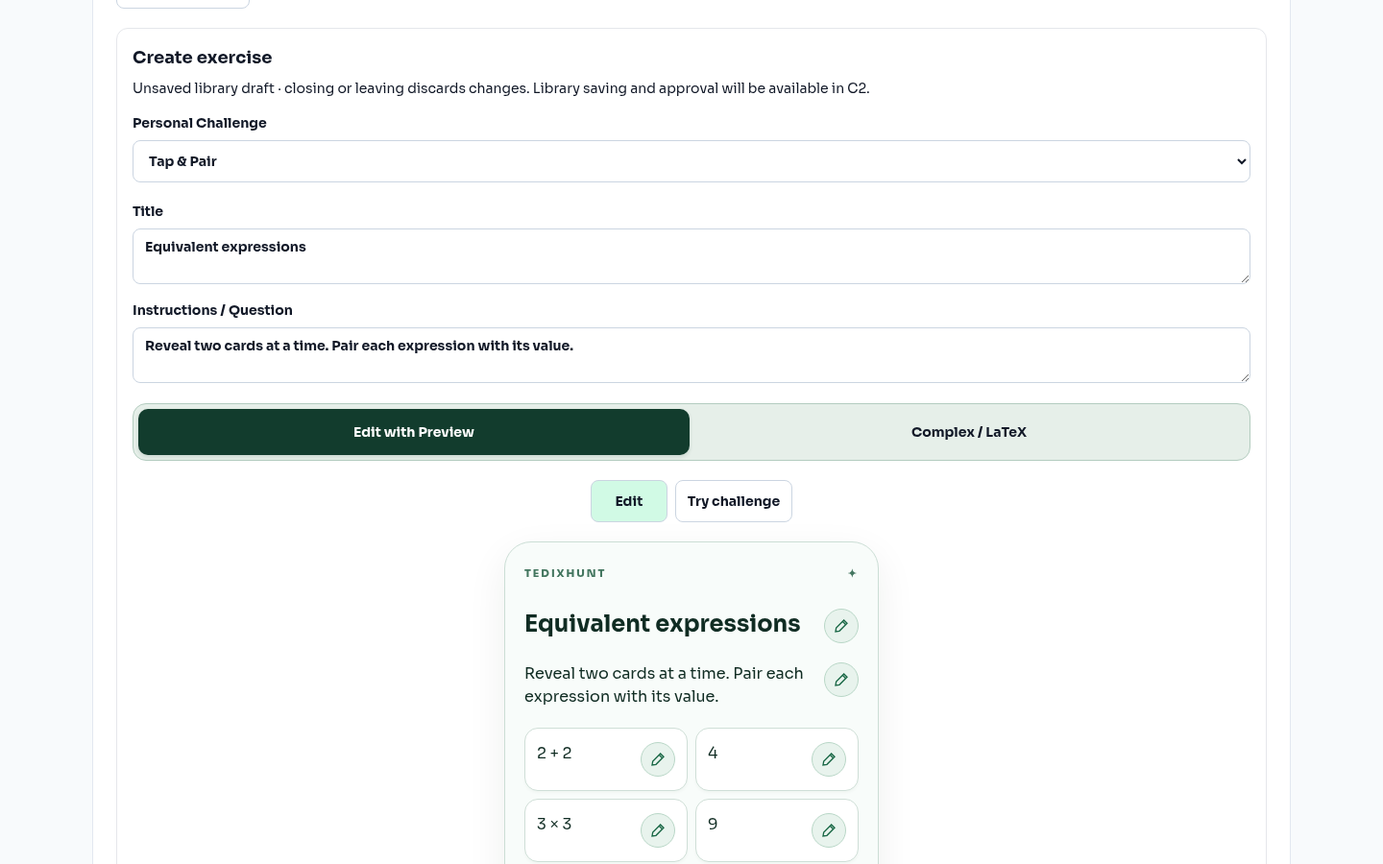
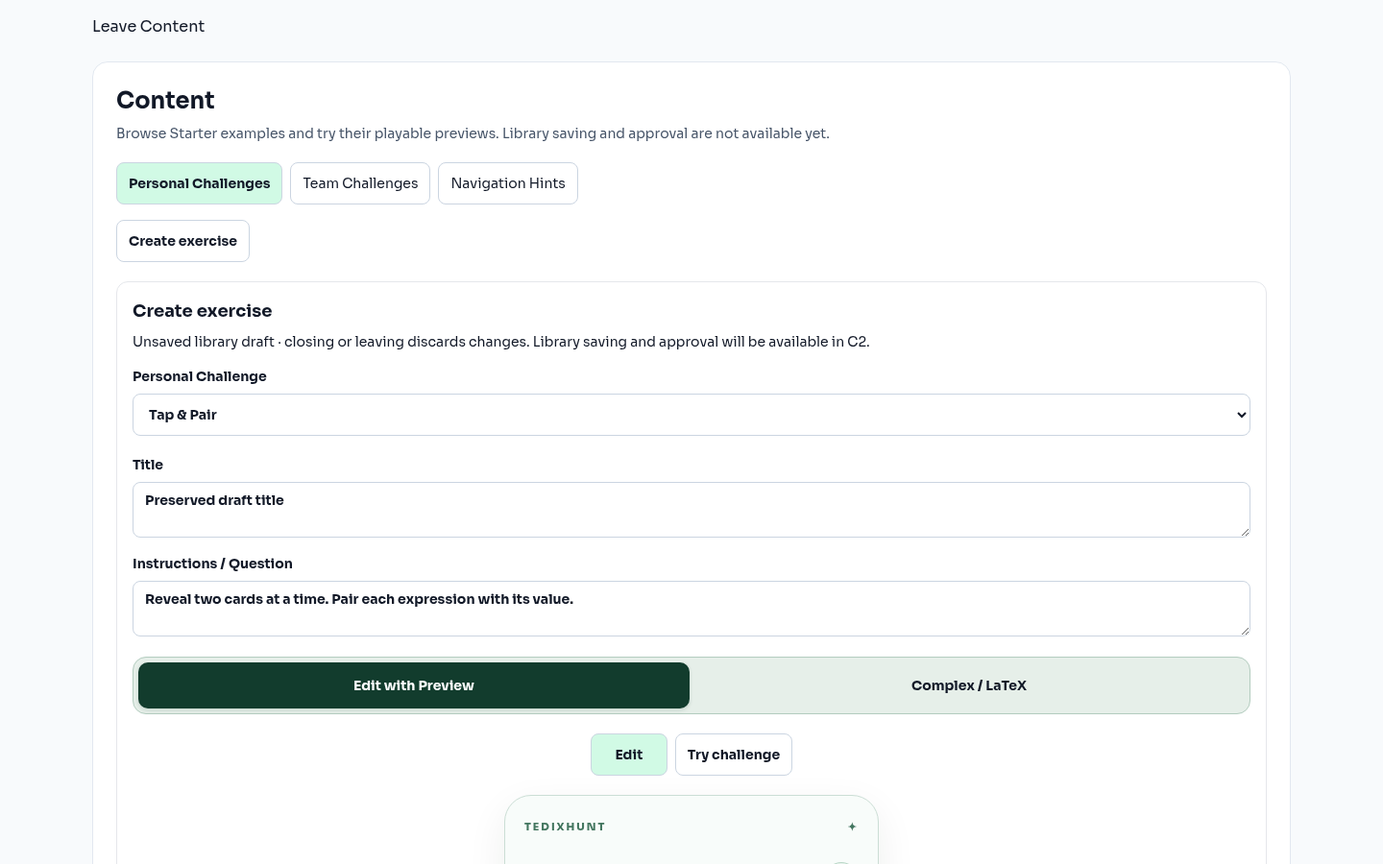
Share individual exercise picker and guard Content draft navigation

diff --git a/tests/contentPicker.test.tsx b/tests/contentPicker.test.tsx
@@ -1,0 +1,112 @@
+import { act, useState } from 'react'
+import { createRoot, type Root } from 'react-dom/client'
+import { createMemoryRouter, RouterProvider } from 'react-router-dom'
+import { afterEach, beforeEach, expect, test, vi } from 'vitest'
+import { ContentPicker } from '../src/features/creator/content/ContentPicker'
+import { ContentSelection } from '../src/features/creator/content/ContentSelection'
+import { ContentLibrary } from '../src/features/creator/content/ContentLibrary'
+import { initialFilters, starterContent, type ContentRecord } from '../src/features/creator/content/catalog'
+import { PersonalChallengeAuthoring } from '../src/features/creator/exercises/PersonalChallengeAuthoring'
+import type { AuthoringDraft } from '../src/features/creator/exercises/experimentDrafts'
+import { applyExerciseDrafts } from '../src/features/creator/exercises/templateExercises'
+vi.mock('../src/services/api/geography', () => ({ geographyApi: { countries: async () => ({ countries: [] }) } }))
+let container: HTMLDivElement, root: Root, router: ReturnType<typeof createMemoryRouter>
+beforeEach(() => {
+  vi.stubGlobal('IS_REACT_ACT_ENVIRONMENT', true)
+  vi.spyOn(window, 'confirm').mockReturnValue(false)
+  Object.defineProperty(HTMLDialogElement.prototype, 'showModal', { configurable: true, value() { this.setAttribute('open', '') } })
+  Object.defineProperty(HTMLDialogElement.prototype, 'close', { configurable: true, value() { this.removeAttribute('open') } })
+  container = document.createElement('div'); document.body.append(container); root = createRoot(container)
+})
+afterEach(() => { act(() => root.unmount()); router?.dispose(); container.remove(); vi.restoreAllMocks(); vi.unstubAllGlobals() })
+async function mount(element: React.ReactNode) { router = createMemoryRouter([{ path: '/', element }]); await act(async () => root.render(<RouterProvider router={router} />)) }
+const button = (label: string) => [...container.querySelectorAll('button')].find(b => b.textContent === label || b.getAttribute('aria-label') === label)!
+async function click(label: string) { expect(button(label), label).toBeDefined(); await act(async () => button(label).click()) }
+async function change(label: string, value: string) {
+  const node = container.querySelector(`[aria-label="${label}"]`) as HTMLSelectElement | HTMLTextAreaElement
+  await act(async () => { Object.getOwnPropertyDescriptor(node instanceof HTMLSelectElement ? HTMLSelectElement.prototype : HTMLTextAreaElement.prototype, 'value')!.set!.call(node, value); node.dispatchEvent(new Event(node instanceof HTMLSelectElement ? 'change' : 'input', { bubbles: true })) })
+}
+const duplicate: ContentRecord = { ...starterContent[0], id: 'fixture-second-record', exercise: { ...structuredClone(starterContent[0].exercise), id: 'fixture-second-exercise', title: 'Another pair exercise', instructions: 'Different source question' } }
+test('picker selects distinct records of the same mechanic, searches instructions and previews without assignment', async () => {
+  const select = vi.fn()
+  const items = [starterContent[0], duplicate]
+  await mount(<ContentPicker section="Personal Challenges" items={items} onSelect={select} />)
+  await click('Try example: Another pair exercise')
+  expect(select).toHaveBeenCalledWith(duplicate)
+  expect(select.mock.calls[0][0].id).not.toBe(items[0].id)
+  expect(container.textContent).toContain('Category: Unclassified')
+  await click('Preview Another pair exercise')
+  expect(container.querySelector('dialog')?.textContent).toContain('Different source question')
+  await click('Close exercise preview')
+  const search = container.querySelector('input[type="search"]')!
+  await act(async () => { Object.getOwnPropertyDescriptor(HTMLInputElement.prototype, 'value')!.set!.call(search, 'Different source question'); search.dispatchEvent(new Event('input', { bubbles: true })) })
+  expect(button(`Try example: ${items[0].exercise.title}`)).toBeUndefined()
+  expect(button('Try example: Another pair exercise')).toBeDefined()
+})
+test('Template Predefined uses individual picker and retains publication guard and custom draft across modes', async () => {
+  let current: AuthoringDraft
+  const mutate = vi.fn(), before = structuredClone(starterContent)
+  function Harness() { const [draft, setDraft] = useState<AuthoringDraft>({ source: 'saved', assignment: 'predefined' }); current = draft; return <PersonalChallengeAuthoring value={{}} draft={draft} onDraftChange={setDraft} onChange={mutate} /> }
+  await mount(<Harness />)
+  expect(container.querySelector('[aria-label="Content exercise picker"]')).not.toBeNull()
+  await click(`Try example: ${starterContent[0].exercise.title}`)
+  expect(current!.exercise).toEqual(starterContent[0].exercise)
+  expect(current!.exercise).not.toBe(starterContent[0].exercise)
+  expect(button('Apply challenge')).toBeUndefined()
+  expect(applyExerciseDrafts([{ checkpoint: 1 }], { 'kind:0': current! }).checkpoints[0].customExercises).toBeUndefined()
+  await click('Create Your Own'); await change('Title', 'My independent draft')
+  const draftId = current!.custom!.id
+  await click('Predefined'); await click('Create Your Own')
+  expect(current!.custom!.title).toBe('My independent draft'); expect(current!.custom!.id).toBe(draftId)
+  expect(mutate).not.toHaveBeenCalled(); expect(starterContent).toEqual(before)
+})
+test('section switches cancel or discard drafts and never retain a mismatched editor', async () => {
+  await mount(<ContentLibrary />); await click('Create exercise'); await change('Title', 'Unsaved personal title')
+  await click('Edit Card 1')
+  const card = container.querySelector('[role="group"][aria-label="Edit Card 1"] textarea')!
+  await act(async () => { Object.getOwnPropertyDescriptor(HTMLTextAreaElement.prototype, 'value')!.set!.call(card, 'Preserved pair card'); card.dispatchEvent(new Event('input', { bubbles: true })) })
+  await click('Done')
+  await click('Complex / LaTeX'); await click('Edit with Preview')
+  expect(container.textContent).toContain('Preserved pair card')
+  expect((container.querySelector('[aria-label="Title"]') as HTMLTextAreaElement).value).toBe('Unsaved personal title')
+  await click('Team Challenges')
+  expect(button('Personal Challenges').getAttribute('aria-pressed')).toBe('true')
+  expect((container.querySelector('[aria-label="Title"]') as HTMLTextAreaElement).value).toBe('Unsaved personal title')
+  vi.mocked(window.confirm).mockReturnValue(true); await click('Team Challenges')
+  expect(container.querySelector('[aria-label="Library exercise draft"]')).toBeNull()
+  await click('Create exercise')
+  expect(container.querySelector('[aria-label="Team Challenge authoring"]')).not.toBeNull()
+  expect(container.querySelector('[aria-label="Personal Challenge authoring"]')).toBeNull()
+  await click('Navigation Hints')
+  expect(container.querySelector('[aria-label="Library exercise draft"]')).toBeNull(); expect(button('Create exercise')).toBeUndefined()
+  await click('Personal Challenges'); await click('Create exercise')
+  expect((container.querySelector('[aria-label="Title"]') as HTMLTextAreaElement).value).not.toBe('Unsaved personal title')
+  await change('Title', 'Replacement draft'); await click('Create exercise')
+  expect((container.querySelector('[aria-label="Title"]') as HTMLTextAreaElement).value).not.toBe('Replacement draft')
+})
+test('Mathematics hierarchy is conditional, uses supplied associations and resets descendants', async () => {
+  const items: ContentRecord[] = [{ ...starterContent[0], curriculum: [
+    { category: 'Mathematics', grade: 5, main: 'Algebra', unitId: 'fixture-unit-a', lessonId: 'fixture-lesson-a' },
+    { category: 'Mathematics', grade: 6, main: 'Geometry', unitId: 'fixture-unit-b', lessonId: 'fixture-lesson-b' },
+  ] }]
+  function Harness() { const [filters, setFilters] = useState(initialFilters); return <ContentSelection filters={filters} onChange={setFilters} items={items} /> }
+  await mount(<Harness />)
+  expect(container.querySelector('[aria-label="Grade"]')).toBeNull()
+  await change('Content category', 'Mathematics')
+  const select = (label: string) => container.querySelector(`[aria-label="${label}"]`) as HTMLSelectElement
+  expect([...select('Grade').options].map(o => o.value)).toEqual(['Mix', '5', '6'])
+  expect(select('Main').disabled).toBe(true)
+  await change('Grade', '5'); expect([...select('Main').options].map(o => o.value)).toEqual(['Mix', 'Algebra'])
+  await change('Main', 'Algebra'); await change('Unit', 'fixture-unit-a'); await change('Lesson', 'fixture-lesson-a')
+  await change('Grade', '6')
+  expect(select('Main').value).toBe('Mix'); expect(select('Unit').value).toBe(''); expect(select('Lesson').value).toBe('')
+  await change('Content category', 'History'); expect(select('Grade')).toBeNull()
+})
+test('absent curriculum leaves the Mathematics hierarchy visible without invented options', async () => {
+  await mount(<ContentSelection filters={{ ...initialFilters, category: 'Mathematics' }} onChange={() => {}} items={starterContent} />)
+  for (const label of ['Grade', 'Main', 'Unit', 'Lesson']) {
+    const select = container.querySelector(`[aria-label="${label}"]`) as HTMLSelectElement
+    expect(select.disabled).toBe(true); expect(select.options).toHaveLength(1)
+  }
+  expect(container.textContent).toContain('unavailable levels await the curriculum catalog')
+})

diff --git a/src/features/creator/exercises/PersonalChallengeAuthoring.tsx b/src/features/creator/exercises/PersonalChallengeAuthoring.tsx
@@ -1,6 +1,4 @@
-import { useState } from 'react'
-import { ContentSelection } from '../content/ContentSelection'
-import { filterContent, initialFilters, starterContent } from '../content/catalog'
+import { ContentPicker } from '../content/ContentPicker'
 import { FormulaField, FormulaScope } from './FormulaEditor'
 import { MathFieldPreview } from './MathText'
 import { PredefinedChallengeContent } from './PredefinedChallengeContent'
@@ -21,14 +19,13 @@ export function PersonalChallengeAuthoring(props: Props) {
   return <FormulaScope><PersonalChallengeAuthoringContent {...props} /></FormulaScope>
 }
 function PersonalChallengeAuthoringContent({ standalone = false, value, context = modernContext, onChange, draft = { source: 'saved', assignment: 'predefined' }, onDraftChange }: Props) {
-  const [contentFilters, setContentFilters] = useState(initialFilters)
   const customMode = draft.source === 'custom', exampleMode = draft.source === 'example', existingMode = context.mode === 'legacy' || context.mode === 'unresolved' && draft.contextChoice === 'compatibility'
   const saved = savedExercise({ ...value, customExercises: undefined }, 'kind')
   const active = draft.emptySelection ? undefined : customMode ? draft.custom : exampleMode ? draft.exercise : savedExercise({ ...value, kind: existingMode ? draft.legacyKind ?? value.kind : value.kind, customExercises: undefined }, 'kind')
   const errors = active ? validateExercise(active) : []
   const changeView = (patch: Partial<AuthoringDraft>) => onDraftChange({ ...draft, ...patch })
   const create = (type: string) => {
-    const example = prototypes.find(e => e.type === type) ?? prototypes[0]
+    const example = exampleMode && active?.type === type ? active : prototypes.find(e => e.type === type) ?? prototypes[0]
     const customByType = { ...draft.customByType, ...(draft.custom ? { [draft.custom.type]: draft.custom } : {}) }
     const custom = customByType[example.type] ?? authorPrototype(independentExercise(example))
     changeView({ source: 'custom', emptySelection: false, appliedCustom: draft.assignment === 'custom' ? draft.appliedCustom ?? draft.custom : draft.appliedCustom, custom, customByType: { ...customByType, [custom.type]: custom } })
@@ -63,9 +60,9 @@ function PersonalChallengeAuthoringContent({ standalone = false, value, context 
 
     {existingMode && !customMode && <CheckpointStoryPreview friendly value={value} />}
     <section aria-label="Checkpoint gameplay"><label className="block text-sm font-bold">Personal Challenge<select aria-label="Personal Challenge" className={`${control} mt-2 w-full bg-white`} value={draft.emptySelection ? '' : existingMode ? draft.legacyKind ?? value.kind ?? '' : customMode ? draft.custom?.type ?? '' : exampleMode ? draft.exercise?.type ?? '' : ''} onChange={e => select(e.target.value)}>
-      <option value="">No challenge (optional)</option>{existingMode ? legacyKinds.map(kind => <option key={kind} value={kind}>{gameplayPresentation('kind', kind).name}</option>) : personalTypes.filter(([type]) => customMode || existingMode || filterContent(starterContent, 'Personal Challenges', contentFilters).some(item => item.mechanic === type)).map(([type, label]) => <option key={type} value={type}>{label}</option>)}
+      <option value="">No challenge (optional)</option>{existingMode ? legacyKinds.map(kind => <option key={kind} value={kind}>{gameplayPresentation('kind', kind).name}</option>) : personalTypes.map(([type, label]) => <option key={type} value={type}>{label}</option>)}
     </select></label></section>
-    {!standalone && !existingMode && !customMode && <><ContentSelection filters={contentFilters} onChange={setContentFilters} /><p className="text-sm text-slate-600">Starter previews only. Approved library selection is not available for published Hunts.</p></>}
+    {!standalone && !existingMode && !customMode && <><ContentPicker section="Personal Challenges" selectedId={draft.exercise ? `starter:${draft.exercise.id}` : undefined} onSelect={item => changeView({ source: 'example', emptySelection: false, exercise: structuredClone(item.exercise) })} /><p className="text-sm text-slate-600">Starter previews only. Approved library selection is not available for published Hunts.</p></>}
     {!standalone && (!existingMode || customMode) && <p role="note" className="text-sm text-slate-600">{!customMode && !exampleMode && saved ? 'Choose a mechanic to create a replacement. Your current challenge stays assigned until you apply a change.' : <>{customMode ? 'Save your own challenge for review. ' : 'Try an example, then choose Create Your Own to adapt it. '}These challenges are not available in published Hunts yet.</>}</p>}
     {!existingMode && !customMode && exampleMode && saved && <button type="button" className={control} onClick={() => changeView({ source: 'saved', emptySelection: false })}>View saved challenge</button>}
     {customMode && active ? <section aria-label={`${active.type} content editor`} className="space-y-4">

diff --git a/src/features/creator/content/ContentLibrary.tsx b/src/features/creator/content/ContentLibrary.tsx
@@ -1,33 +1,20 @@
-import { ContentSelection } from './ContentSelection'
+import { ContentPicker } from './ContentPicker'
 import { LibraryAuthoring } from './LibraryAuthoring'
 import { useState } from 'react'
-import { ExercisePreview } from '../exercises/ExercisePreview'
 import { control } from '../exercises/ExerciseRenderer'
-import { typeName } from '../exercises/catalog'
-import { categories, filterContent, initialFilters, starterContent, type ContentCategory, type ContentRecord } from './catalog'
+import { categories, starterContent, type ContentCategory, type ContentRecord } from './catalog'
 
-/** Read-only C1 browser; no assignment, editing or persistence side effects. */
+/** Protected source browsing and isolated session drafts; no library persistence. */
 export function ContentLibrary({ items = starterContent }: { items?: readonly ContentRecord[] }) {
+  const [draftSession, setDraftSession] = useState(0)
   const [authoring, setAuthoring] = useState<'personal' | 'team' | null>(null)
   const [category, setCategory] = useState<ContentCategory>('Personal Challenges')
-  const [filters, setFilters] = useState(initialFilters)
-  const [preview, setPreview] = useState<ContentRecord | null>(null)
-  const visible = filterContent(items, category, filters)
   return <section aria-label="Content Library" className="mt-6 min-w-0 rounded-2xl border border-slate-200 bg-white p-4 sm:p-6">
     <h2 className="text-2xl font-bold">Content</h2>
     <p className="mt-2 text-sm text-slate-600">Browse Starter examples and try their playable previews. Library saving and approval are not available yet.</p>
-    <div aria-label="Content categories" className="mt-5 flex flex-wrap gap-2">{categories.map(name => <button key={name} type="button" aria-pressed={category === name} onClick={() => setCategory(name)} className={`${control} ${category === name ? 'bg-emerald-100 font-bold' : ''}`}>{name}</button>)}</div>
-    <ContentSelection filters={filters} onChange={setFilters} />
-    {category !== 'Navigation Hints' && <button type="button" className={`${control} mt-4 font-bold`} onClick={() => { if (!authoring || window.confirm('Discard the current unsaved exercise and start another?')) { setAuthoring(null); queueMicrotask(() => setAuthoring(category === 'Team Challenges' ? 'team' : 'personal')) } }}>Create exercise</button>}
-    {authoring && <LibraryAuthoring key={authoring} team={authoring === 'team'} onClose={() => setAuthoring(null)} />}
-    <h3 className="mt-6 text-lg font-bold">{category}</h3>
-    <p role="status" className="mt-1 text-sm text-slate-600">{visible.length} Starter {visible.length === 1 ? 'example' : 'examples'}</p>
-    {visible.length ? <ul className="mt-4 grid gap-4 md:grid-cols-2 xl:grid-cols-3">{visible.map(item => <li key={item.id} className="flex min-w-0 flex-col rounded-xl border border-slate-200 p-4">
-      <p className="text-xs font-bold text-emerald-800">{item.collection.name} · Protected example</p>
-      <h4 className="mt-2 font-bold">{item.exercise.title}</h4><p className="mt-1 text-sm text-slate-600">{typeName(item.mechanic)}</p>
-      <p className="mt-2 flex-1 text-sm">{item.exercise.instructions}</p>
-      <button type="button" className={`${control} mt-4 w-full font-bold`} aria-label={`Preview ${item.exercise.title}`} onClick={() => setPreview(item)}>Playable preview</button>
-    </li>)}</ul> : <p className="mt-4 rounded-xl bg-slate-50 p-5">{!items.some(item => item.category === category) ? 'No standalone Starter records are available for this category. Navigation settings in Templates are not reusable hint content.' : 'No Starter examples match these filters. Reset filters to browse unclassified examples.'}</p>}
-    {preview && <ExercisePreview key={preview.id} exercise={preview.exercise} onClose={() => setPreview(null)} />}
+    <div aria-label="Content categories" className="mt-5 flex flex-wrap gap-2">{categories.map(name => <button key={name} type="button" aria-pressed={category === name} onClick={() => { if (name === category) return; if (authoring && !window.confirm('Discard this unsaved exercise and change content section?')) return; setAuthoring(null); setCategory(name) }} className={`${control} ${category === name ? 'bg-emerald-100 font-bold' : ''}`}>{name}</button>)}</div>
+    {category !== 'Navigation Hints' && <button type="button" className={`${control} mt-4 font-bold`} onClick={() => { if (!authoring || window.confirm('Discard the current unsaved exercise and start another?')) { setDraftSession(value => value + 1); setAuthoring(category === 'Team Challenges' ? 'team' : 'personal') } }}>Create exercise</button>}
+    {authoring && <LibraryAuthoring key={draftSession} team={authoring === 'team'} onClose={() => setAuthoring(null)} />}
+    <ContentPicker key={category} section={category} items={items} />
   </section>
 }

diff --git a/src/features/creator/content/ContentSelection.tsx b/src/features/creator/content/ContentSelection.tsx
@@ -1,13 +1,19 @@
-import { categoryFilters, templateCategories } from './classification'
+import { changeCurriculum, curriculumOptions, mathematicsLevels } from './curriculum'
+import { templateCategories } from './classification'
 import { ContentGeography, universalScope } from './ContentGeography'
 import { control } from '../exercises/ExerciseRenderer'
-import { initialFilters, type ContentFilters } from './catalog'
+import { initialFilters, starterContent, type ContentRecord, type ContentFilters } from './catalog'
 /** Shared browser conventions for library and Template Predefined. No assignment operation. */
-export function ContentSelection({ filters, onChange }: { filters: ContentFilters; onChange: (v: ContentFilters) => void }) {
+export function ContentSelection({ filters, onChange, items = starterContent }: { filters: ContentFilters; onChange: (v: ContentFilters) => void; items?: readonly ContentRecord[] }) {
   const scope = filters.scope ?? universalScope
   const setScope = (scope: typeof universalScope) => onChange({ ...filters, scope })
   return <fieldset className="mt-4 min-w-0"><legend className="font-bold">Filter content</legend><div className="mt-2 grid gap-3 sm:grid-cols-2"><label>Category<select aria-label="Content category" className={`${control} w-full bg-white`} value={filters.category} onChange={e => onChange({ ...initialFilters, query: filters.query, scope, category: e.target.value })}><option value="All">All</option>{templateCategories.map(c => <option key={c}>{c}</option>)}</select></label><label>Search<input type="search" className={`${control} w-full`} value={filters.query} onChange={e => onChange({ ...filters, query: e.target.value })} /></label></div>
-    {filters.category !== 'All' && <p className="mt-2 text-sm text-slate-600">No classified Starter records{categoryFilters[filters.category]?.length ? ' or Grade → Main → Unit → Lesson catalog' : ''} available yet.</p>}
+    {filters.category === 'Mathematics' && <fieldset className="mt-4 min-w-0" aria-describedby="math-curriculum-help"><legend className="text-sm font-bold">Mathematics curriculum</legend>
+      <div className="mt-2 grid gap-3 sm:grid-cols-2 lg:grid-cols-4">{mathematicsLevels.map(level => {
+        const options = curriculumOptions(items, filters, level.key)
+        return <label key={level.key} className="min-w-0 text-sm">{level.label}<select aria-label={level.label} className={`${control} mt-1 w-full bg-white`} value={filters[level.key]} disabled={!options.length} onChange={e => onChange(changeCurriculum(filters, level.key, e.target.value))}><option value={level.all}>{options.length ? 'All' : 'Unavailable'}</option>{options.map(value => <option key={value} value={value}>{value}</option>)}</select></label>
+      })}</div><p id="math-curriculum-help" className="mt-2 text-sm text-slate-600">Grade → Main → Unit → Lesson. Only supplied curriculum associations are selectable; unavailable levels await the curriculum catalog.</p>
+    </fieldset>}
     <ContentGeography value={scope} onChange={setScope} />
     {(scope.country || scope.region || scope.city) && <p role="status" className="mt-2 text-sm">No Starter geographic associations are available yet. Reset geography to Universal to browse examples.</p>}
     <button type="button" className={`${control} mt-3`} onClick={() => { onChange(initialFilters) }}>Reset filters</button>

diff --git a/src/features/creator/content/ContentPicker.tsx b/src/features/creator/content/ContentPicker.tsx
@@ -1,0 +1,29 @@
+import { useState } from 'react'
+import { ContentSelection } from './ContentSelection'
+import { filterContent, initialFilters, starterContent, type ContentCategory, type ContentRecord } from './catalog'
+import { ExercisePreview } from '../exercises/ExercisePreview'
+import { control } from '../exercises/ExerciseRenderer'
+import { typeName } from '../exercises/catalog'
+
+/** Select individual records for local simulation only; never assigns a library revision. */
+export function ContentPicker({ section, items = starterContent, selectedId, onSelect }: {
+  section: ContentCategory; items?: readonly ContentRecord[]; selectedId?: string; onSelect?: (item: ContentRecord) => void
+}) {
+  const [filters, setFilters] = useState(initialFilters)
+  const [preview, setPreview] = useState<ContentRecord | null>(null)
+  const visible = filterContent(items, section, filters)
+  return <section aria-label="Content exercise picker" className="min-w-0">
+    <ContentSelection filters={filters} onChange={setFilters} items={items.filter(item => item.category === section)} />
+    <h3 className="mt-6 text-lg font-bold">{section}</h3>
+    <p role="status" className="mt-1 text-sm text-slate-600">{visible.length} Starter {visible.length === 1 ? 'example' : 'examples'}</p>
+    {visible.length ? <ul className="mt-4 grid gap-4 md:grid-cols-2 xl:grid-cols-3">{visible.map(item => <li key={item.id} className="flex min-w-0 flex-col rounded-xl border border-slate-200 p-4">
+      <p className="text-xs font-bold text-emerald-800">{item.collection.name} · Protected example</p>
+      <h4 className="mt-2 font-bold">{item.exercise.title}</h4><p className="mt-1 text-sm text-slate-600">{typeName(item.mechanic)}</p>
+      <dl className="mt-2 text-xs text-slate-600"><dt className="inline font-bold">Category: </dt><dd className="inline">{item.activityCategory ?? item.curriculum[0]?.category ?? 'Unclassified'}</dd><dt className="mt-1 font-bold">Geographic applicability</dt><dd>{item.geography ? [item.geography.country, item.geography.region, item.geography.city].filter(Boolean).join(' / ') || 'Universal' : 'Unclassified'}</dd></dl>
+      <p className="mt-2 flex-1 break-words text-sm">{item.exercise.instructions}</p>
+      <button type="button" className={`${control} mt-4 w-full font-bold`} aria-label={`Preview ${item.exercise.title}`} onClick={() => setPreview(item)}>Playable preview</button>
+      {onSelect && <button type="button" className={`${control} mt-2 w-full`} aria-pressed={selectedId === item.id} onClick={() => onSelect(item)}>Try example: {item.exercise.title}</button>}
+    </li>)}</ul> : <p className="mt-4 rounded-xl bg-slate-50 p-5">{!items.some(item => item.category === section) ? 'No standalone Starter records are available for this category. Navigation settings in Templates are not reusable hint content.' : 'No Starter examples match these filters. Reset filters to browse unclassified examples.'}</p>}
+    {preview && <ExercisePreview key={preview.id} exercise={preview.exercise} onClose={() => setPreview(null)} />}
+  </section>
+}

diff --git a/tests/browser/contentUnified.preview.tsx b/tests/browser/contentUnified.preview.tsx
@@ -1,3 +1,6 @@
+import { useState } from 'react'
+import { PersonalChallengeAuthoring } from '../../src/features/creator/exercises/PersonalChallengeAuthoring'
+import type { AuthoringDraft } from '../../src/features/creator/exercises/experimentDrafts'
 import { createRoot } from 'react-dom/client'
 import { createMemoryRouter, RouterProvider, Link } from 'react-router-dom'
 import { ContentLibrary } from '../../src/features/creator/content/ContentLibrary'
@@ -9,5 +12,6 @@ import '../../src/shared/theme/global.css'
 geographyApi.countries = async () => ({ countries: [{ code: 'RO', displayName: 'Romania' }, { code: 'FR', displayName: 'France' }] })
 geographyApi.regions = async country => ({ regions: [{ countryCode: country, admin1Code: 'fixture-region', displayName: 'Fixture region' }], regionLabel: 'Region', metadataStatus: 'ready', nextAfter: null })
 geographyApi.cities = async country => ({ cities: [{ geographicId: 'fixture-city', countryCode: country, countryDisplayName: 'Fixture country', name: 'Fixture city', admin1Code: 'fixture-region', regionDisplayName: 'Fixture region', regionStatus: 'resolved', administrativeContext: 'Fixture', latitude: 0, longitude: 0, localityId: null, registeredActive: false, registrationState: 'fixture', nextAction: 'fixture' }], nextAfter: null })
-const router = createMemoryRouter([{ path: '/', element: <main className="mx-auto max-w-7xl p-4"><Link to="/away">Leave Content</Link><ContentLibrary /></main> }, { path: '/away', element: <p>Left Content</p> }])
+function TemplatePredefined() { const [draft, setDraft] = useState<AuthoringDraft>({ source: 'saved', assignment: 'predefined' }); return <main className="mx-auto max-w-7xl p-4"><h1>Template Personal Challenge</h1><PersonalChallengeAuthoring value={{}} draft={draft} onDraftChange={setDraft} onChange={() => { throw new Error('Example assignment is forbidden') }} /></main> }
+const router = createMemoryRouter([{ path: '/', element: <main className="mx-auto max-w-7xl p-4"><Link to="/away">Leave Content</Link><ContentLibrary /></main> }, { path: '/away', element: <p>Left Content</p> }, { path: '/template', element: <TemplatePredefined /> }], { initialEntries: [new URLSearchParams(window.location.search).has('template') ? '/template' : '/'] })
 createRoot(document.getElementById('root')!).render(<RouterProvider router={router} />)

diff --git a/src/features/creator/content/curriculum.ts b/src/features/creator/content/curriculum.ts
@@ -1,0 +1,25 @@
+import type { ContentFilters, ContentRecord } from './catalog'
+export const mathematicsLevels = [
+  { key: 'grade', label: 'Grade', all: 'Mix' },
+  { key: 'main', label: 'Main', all: 'Mix' },
+  { key: 'unit', label: 'Unit', all: '' },
+  { key: 'lesson', label: 'Lesson', all: '' },
+] as const
+export type CurriculumLevel = typeof mathematicsLevels[number]['key']
+/** Association values are source data, never generated curriculum identifiers. */
+export function curriculumOptions(items: readonly ContentRecord[], filters: ContentFilters, level: CurriculumLevel): string[] {
+  const index = mathematicsLevels.findIndex(l => l.key === level)
+  if (mathematicsLevels.slice(0, index).some(parent => filters[parent.key] === parent.all)) return []
+  const rows = items.flatMap(item => item.curriculum).filter(row => row.category === 'Mathematics' && mathematicsLevels.slice(0, index).every(parent => {
+    const selected = filters[parent.key]
+    const value = parent.key === 'unit' ? row.unitId : parent.key === 'lesson' ? row.lessonId : row[parent.key]
+    return selected === parent.all || String(value) === selected
+  }))
+  return [...new Set(rows.map(row => level === 'unit' ? row.unitId : level === 'lesson' ? row.lessonId : String(row[level])).filter((value): value is string => !!value))].sort((a, b) => a.localeCompare(b, undefined, { numeric: true }))
+}
+export function changeCurriculum(filters: ContentFilters, level: CurriculumLevel, value: string): ContentFilters {
+  const next = { ...filters, [level]: value }
+  const index = mathematicsLevels.findIndex(l => l.key === level)
+  for (const child of mathematicsLevels.slice(index + 1)) next[child.key] = child.all
+  return next
+}

diff --git a/src/features/creator/content/catalog.ts b/src/features/creator/content/catalog.ts
@@ -41,7 +41,7 @@ export const initialFilters: ContentFilters = { category: 'All', grade: 'Mix', m
 export function filterContent(items: readonly ContentRecord[], category: ContentCategory, filters: ContentFilters) {
   return items.filter(item => item.category === category &&
     (!filters.scope || !filters.scope.country || !!item.geography && (!item.geography.country || item.geography.country === filters.scope.country) && (!item.geography.region || item.geography.region === filters.scope.region) && (!item.geography.city || item.geography.city === filters.scope.city)) && (filters.category === 'All' || item.activityCategory === filters.category || item.curriculum.some(c => c.category === filters.category)) &&
-    `${item.exercise.title} ${item.mechanic}`.toLowerCase().includes(filters.query.trim().toLowerCase()) &&
+    `${item.exercise.title} ${item.exercise.instructions} ${item.mechanic} ${item.activityCategory ?? ''} ${item.collection.name}`.toLowerCase().includes(filters.query.trim().toLowerCase()) &&
     (filters.grade === 'Mix' && filters.main === 'Mix' && !filters.unit && !filters.lesson ||
       item.curriculum.some(c => (filters.category === 'All' || c.category === filters.category) &&
         (filters.grade === 'Mix' || String(c.grade) === filters.grade) && (filters.main === 'Mix' || c.main === filters.main) &&

diff --git a/docs/content-unified/README.md b/docs/content-unified/README.md
@@ -4,16 +4,16 @@ Content retains Personal Challenges, Team Challenges and Navigation Hints, with 
 
 ## Reuse and ownership
 
-- `ContentSelection` shares Category, search and geographic applicability conventions between Content and modern Personal → Predefined. The existing mechanic selector remains the example-selection entry point; filtering never assigns an example.
+- `ContentPicker` is the same individual-exercise browser in Content and modern Personal → Predefined: searchable cards, Category/geographic metadata and playable preview. Template cards select a cloned exercise for local simulation through “Try example”; no selection assigns an approved library revision. The original mechanic shortcut remains available for compatibility. `ContentSelection` provides the shared filtering controls.
 - `classification.ts` owns the existing Template Setup values: Mathematics, History, Science, Mixed. `All` is only a filter operation. Existing `Mixed` is preserved as an existing Template value; no new category identifiers are created. Language and Tourism have extension points but are not fabricated selectable Template values.
 - `PersonalChallengeAuthoring` and `TeamChallengeAuthoring` gain an opt-in standalone boundary. They retain their existing mechanic selectors, per-type drafts, validation and editors. Standalone suppresses checkpoint assignment, save guidance, and persisted-assignment controls. Existing Template behavior defaults remain unchanged.
 - `PersonalMechanicEditor`, `PersonalChallengeCanvas`, `TeamMechanicEditor`, `TeamChallengeCanvas`, `FormulaScope` and the existing `ExerciseRenderer` engine are reused. Personal editing retains Edit with Preview, contextual pencils and Complex / LaTeX. Team retains its existing Edit with Preview and Step by Step mechanics; no new Team LaTeX capability is claimed.
 - `independentExercise` and `authorPrototype` create independent session drafts. Protected Starter objects are never passed as editable state. Preview uses the existing `ExercisePreview` / `ExerciseRenderer` engine.
-- Library drafts have no save button. Close/replacement prompts, router navigation blocking and beforeunload guard make discard explicit. Classification/filter state is session-only and does not alter Template locality.
+- Library drafts have no save button. Section changes, close/replacement prompts, router navigation blocking and beforeunload guard make discard explicit. Classification/filter state is session-only and does not alter Template locality.
 
 ## Data limitations
 
-Starter examples have no category, curriculum or geographic associations. All/Universal can browse them; constrained filters exclude unknown metadata. Mathematics has ordered Grade → Main → Unit → Lesson extension points, but no available official records or IDs, so disabled/fabricated curriculum selectors are omitted. Other categories display no irrelevant filters. No curriculum API is invented.
+Starter examples have no category, curriculum or geographic associations. All/Universal can browse them; constrained filters exclude unknown metadata. Mathematics keeps Grade → Main → Unit → Lesson visible. Options are derived only from supplied curriculum associations, with each child dependent on its selected parents. Parent changes reset descendants. The current Starter set has no curriculum catalog, so levels show Unavailable with one concise explanation; no selectable official records or IDs are fabricated. Other categories display no irrelevant filters. No curriculum API is invented.
 
 `ContentGeography` reuses geography API models and existing read endpoints, with Country → Region → City selection and Universal defaults. Changing parents clears children; requests ignore stale responses. It intentionally does not reuse the locality-binding selector, whose resolve/registration and Template-save semantics do not represent applicability. Country and region catalogs paginate; city search shows the first returned page, narrowed by search. There are no resolve, registration, proposal or locality-binding writes.
 
@@ -23,12 +23,12 @@ Implement creator-owned library drafts and server-owned approval transitions, re
 
 No backend/schema, scoring, gameplay validation, permissions, legacy Hunt, Mapbox persistence, or Template version/save behavior changes.
 
-## Verification
+## Verification (PR #163 follow-up)
 
 - Full FE `npm run typecheck`, `npm test`, `npm run build`.
 - `node tests/browser/contentUnified.verify.mjs` against local Vite: 1440, 390, 320px. Browser fixtures are explicitly isolated under `tests/browser`; they are not production geography fallback data.
-- Screenshots: Content, standalone Personal and standalone Team at every requested width in `screenshots/`.
+- Screenshots: Content, Mathematics hierarchy, Template individual-exercise picker, standalone Personal and standalone Team at every requested width in `screenshots/`.
 - Browser assertions cover Universal defaults, parent resets, city selection, Category filter reset, unavailable taxonomy, Starter preview, default Edit with Preview, Complex / LaTeX, no assignment/save controls, navigation cancellation and no horizontal overflow.
-- Unit regression coverage includes canonical mechanics, source immutability, geographic matching, standalone draft discard, and existing Template Personal/Team authoring suites.
+- Focused `contentPicker.test.tsx` coverage: individual records with the same mechanic, instruction search, playable preview, Template record selection/publication guard, independent drafts, mode preservation, cancel/confirm section switching, same-section draft replacement, actual-data hierarchy/reset and absent-catalog behavior. Existing canonical mechanics, source immutability, geography and Template Personal/Team suites also pass.
 
 Stop for ChatGPT review. Do not merge or deploy.
